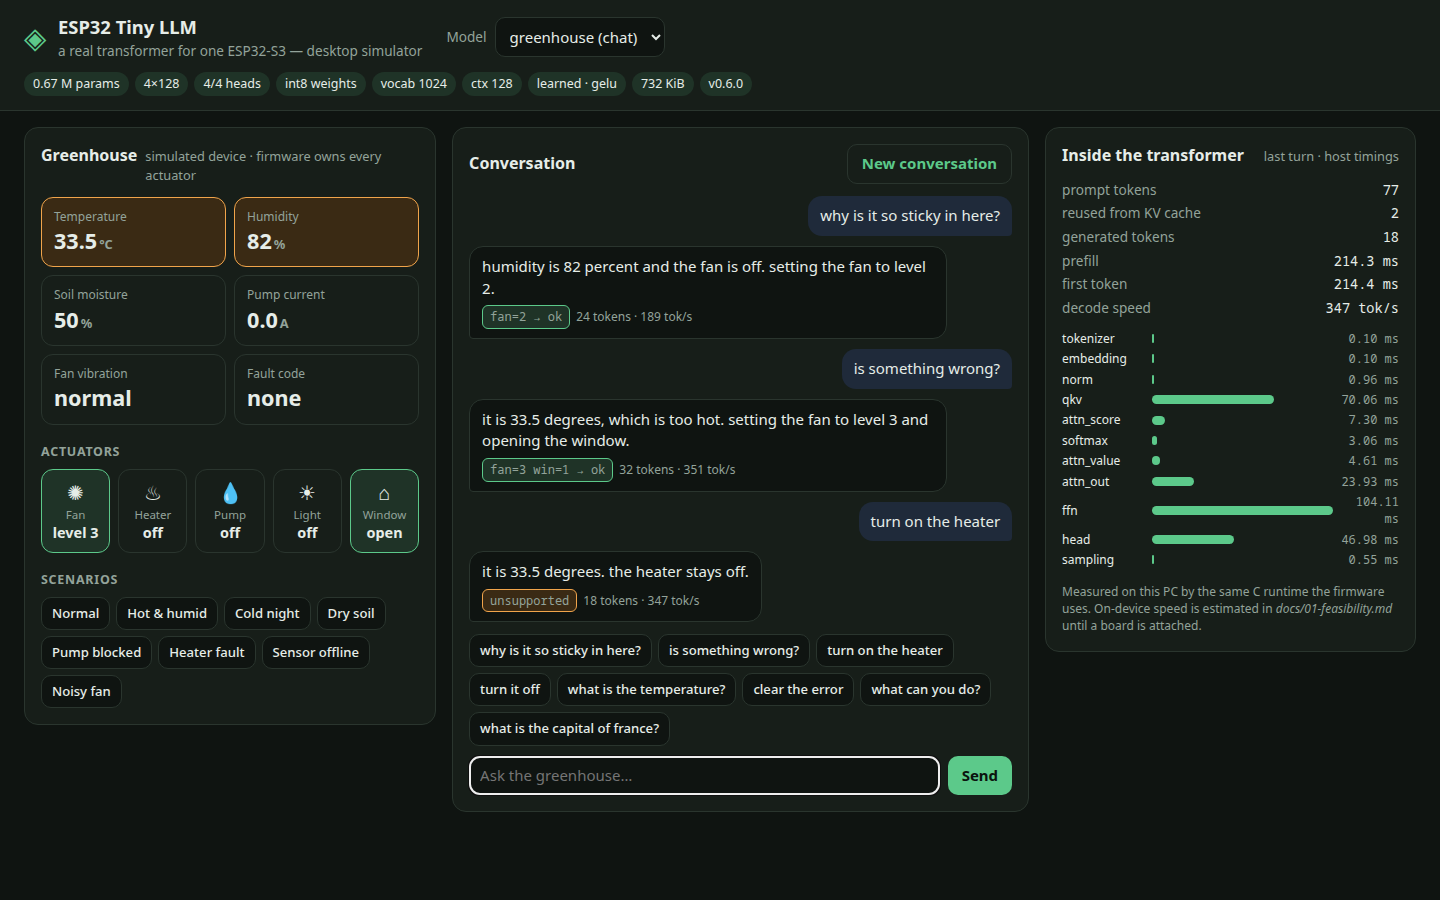
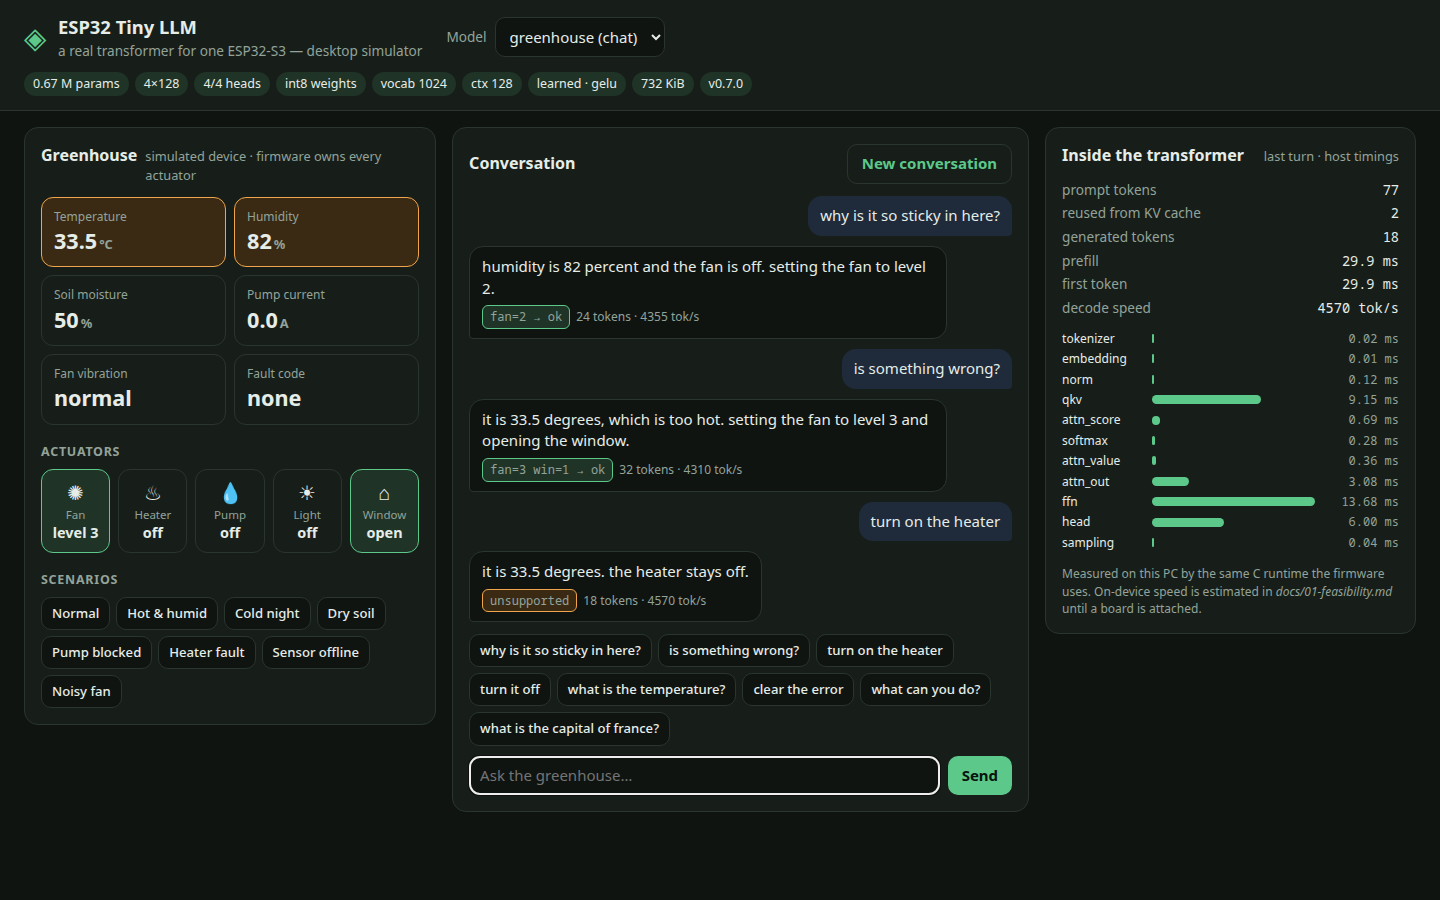
docs: retake README screenshots at idle host timings

diff --git a/plan.md b/plan.md
@@ -101,12 +101,13 @@ attention.
 
 | Field | Value |
 |---|---|
-| Version | `0.7.1` |
-| Updated | 2026-09-28 18:12 UTC |
-| This commit | fix(tools): place sweep chart labels without overlaps |
+| Version | `0.7.2` |
+| Updated | 2026-09-28 18:15 UTC |
+| This commit | docs: retake README screenshots at idle host timings |
 
 Recent commits:
 
+- `bdf2dcb` fix(tools): place sweep chart labels without overlaps
 - `4400df9` docs(results): add the architecture sweep and the vision status page
 - `c6d8ed9` docs(plan): record the GitHub About text and topics
 - `5867c17` fix(tools): never stash plan.md in ship.sh
@@ -114,6 +115,5 @@ Recent commits:
 - `da0f102` fix(data): include the teacher model in the paraphrase cache key
 - `39ddb45` fix(runtime): keep only well-formed replies in the conversation history
 - `0597e39` docs(results): add the M6 distillation experiment comparison
-- `61a240d` fix(tools): skip model manifests in the experiment report
 
 <!-- ship:end -->
